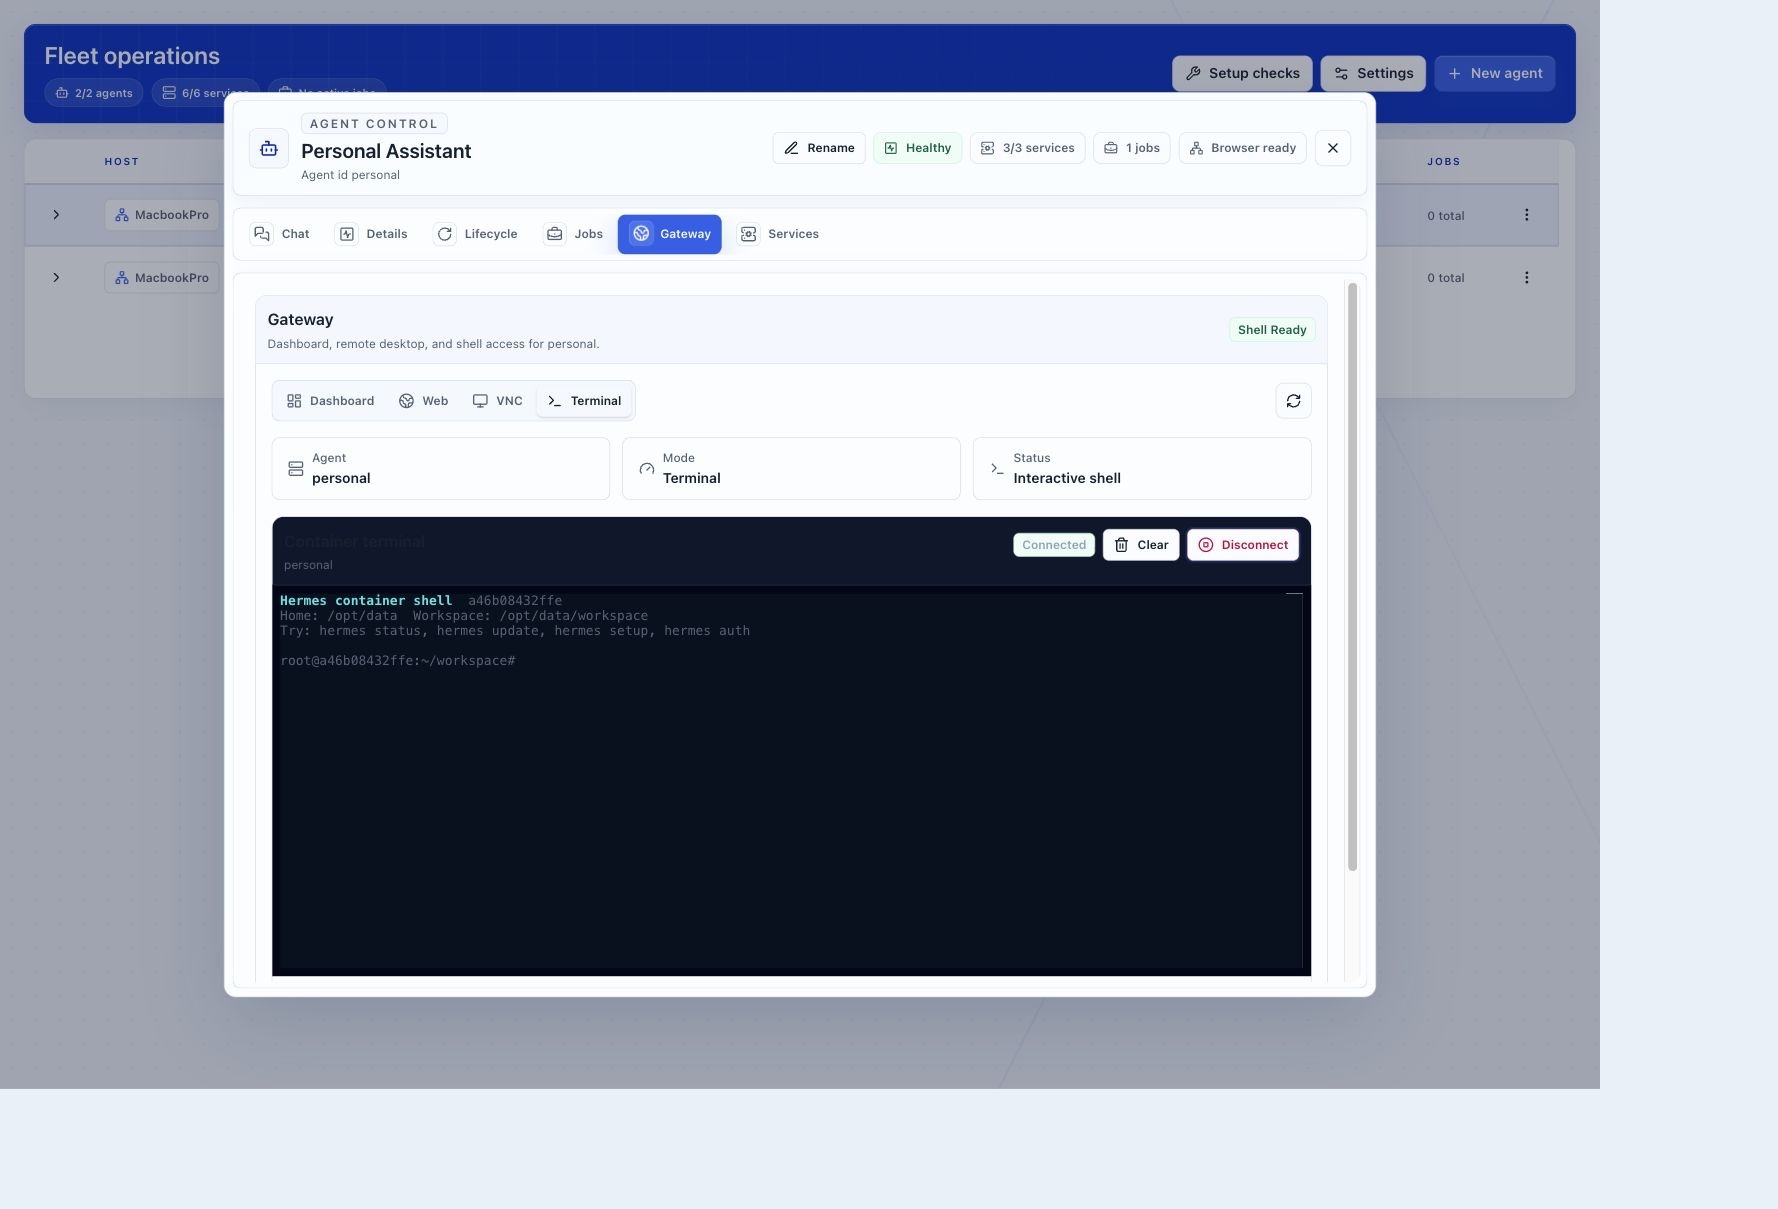
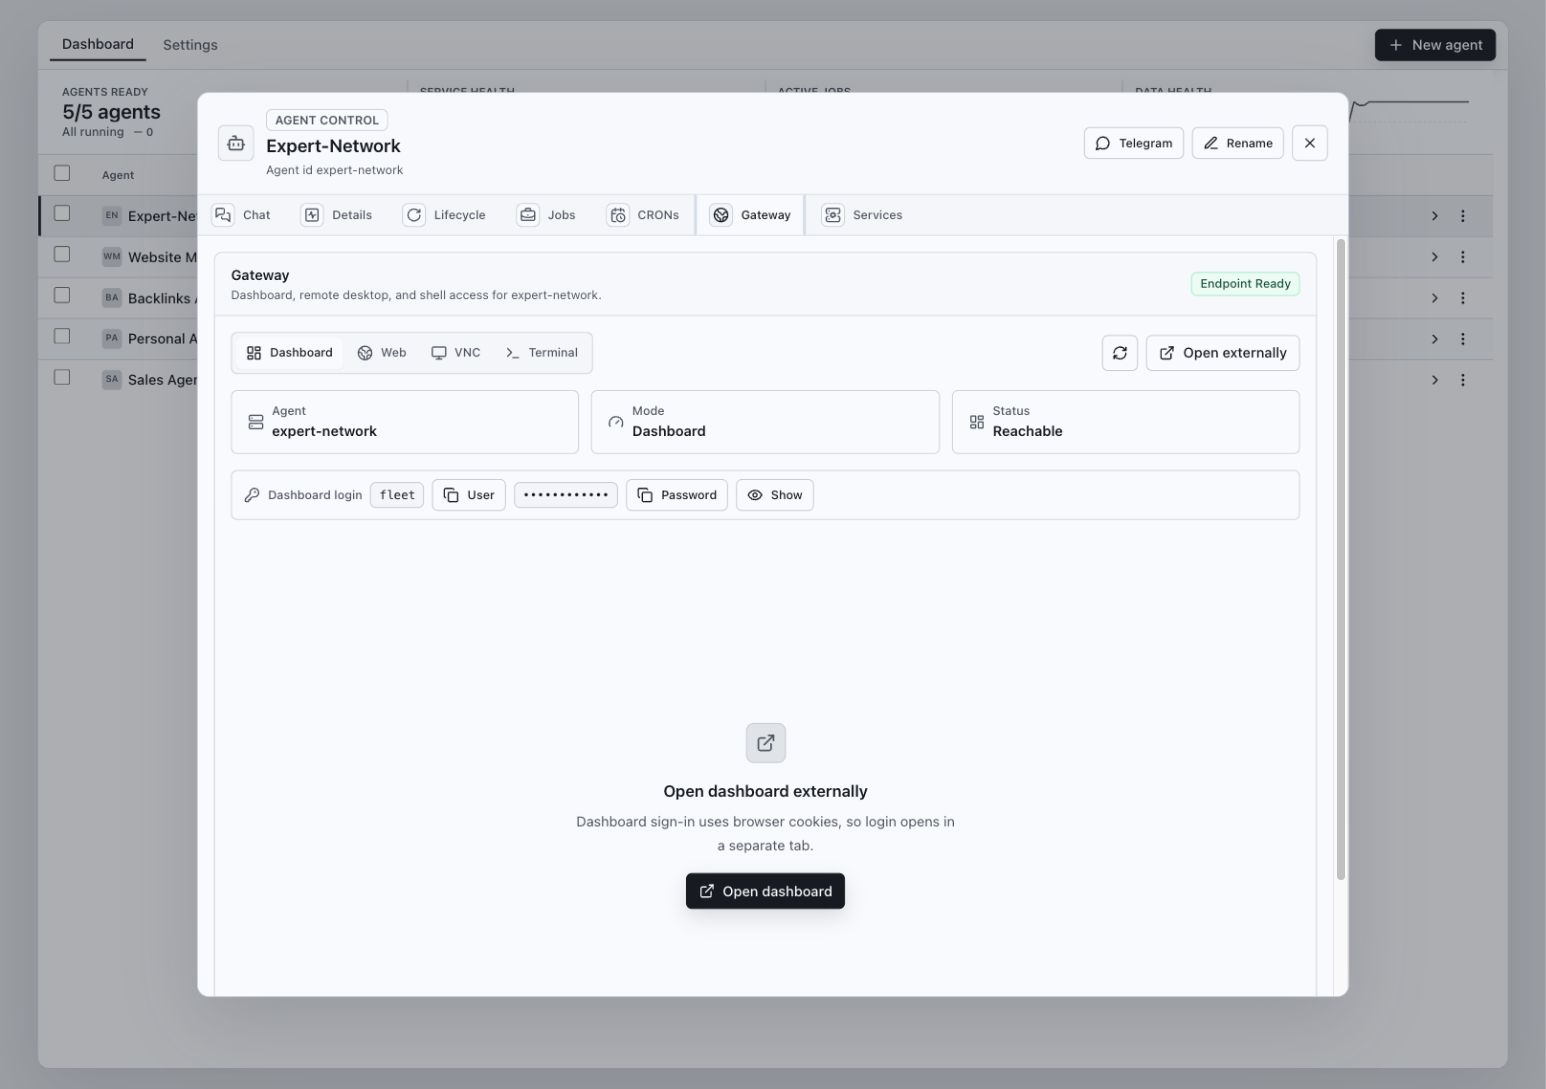
Update screenshots

diff --git a/README.md b/README.md
@@ -12,8 +12,6 @@ Fleet is designed for technical operators running personal or team-controlled ag
 
 ![Fleet dashboard showing agents grouped by host with health and update status](docs/assets/screenshots/fleet-dashboard.jpg)
 
-![Setup checks and local network Fleet Node linking guidance](docs/assets/screenshots/setup-checks.jpg)
-
 ![Agent gateway modal showing terminal access](docs/assets/screenshots/agent-gateway-terminal.jpg)
 
 ## What Fleet Does